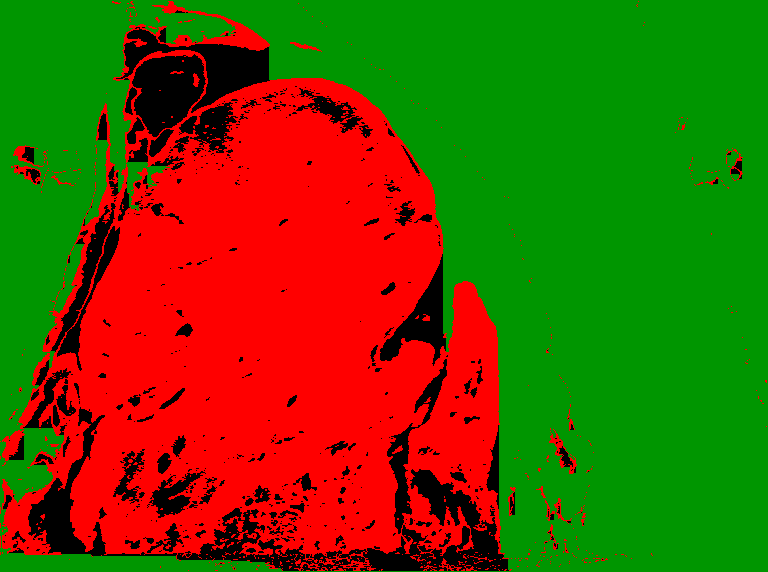
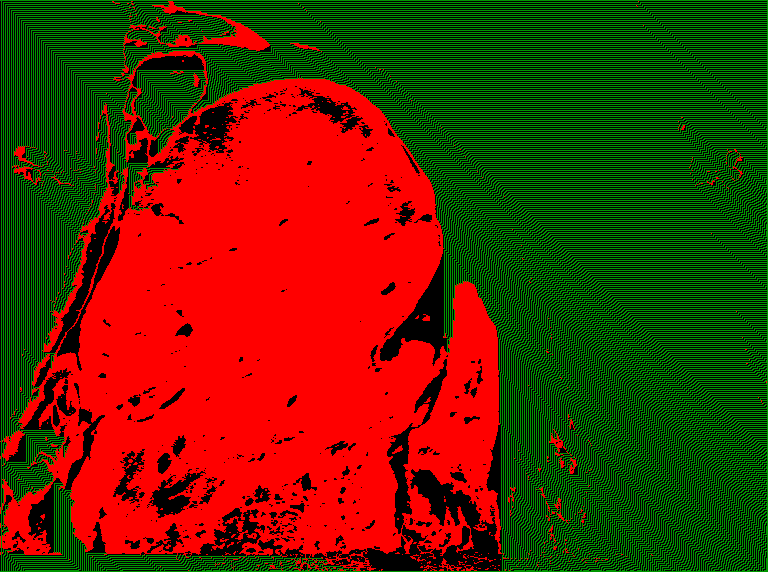
made better system?

Changed region(s): [[0.0, 0.0, 1.0, 1.0]]

diff --git a/process_image.py b/process_image.py
@@ -27,31 +27,36 @@ def create_image_two(image_path):
             else:
                 pixels_two[i, j] = (0, 0, 0)  # Black (non-red pixels)
     
-    # Color the background black [remember, the dimensions are 768x572] & [row, col]
+    # Color the outline black [remember, the dimensions are 768x572] & [row, col]
     for i in range(img.size[0]):  # For all pixels in range (width)
         pixels_two[i, 0] = (0, 150, 0) #the top row
         pixels_two[i, img.size[1] - 1] = (0, 150, 0) # Green
     for i in range(img.size[1]):  # For all pixels in range (width)
         pixels_two[1, i] = (0, 150, 0) #the top row
         pixels_two[img.size[0] - 1, i] = (0, 150, 0) # Green
-    
-    #spread out from there(infect the other cells) DOWN AND RIGHTdirection
-    for i in range(img.size[0] - 1):  # Width
-        for j in range(img.size[1] - 1):  # Height
-            if pixels_two[i, j] == (0, 150, 0): # if the pixel equals green 
-                if pixels_two[i, j + 1] == (0, 0, 0): # if the pixel to the bottom of it is black
-                    pixels_two[i, j + 1] = (0, 150, 0) # set botton pixel to green
-                if pixels_two[i + 1, j] == (0, 0, 0): #if the pixel to the right of it is black
-                    pixels_two[i + 1, j] = (0, 150, 0) # set botton pixel to green
-    
-    #spread out from there(infect the other cells) UP AND LEFT direction
-    for i in range(img.size[0] - 1):  # Width
-        for j in range(img.size[1] - 1):  # Height
-            if pixels_two[i, j] == (0, 150, 0): # if the pixel equals green 
-                if pixels_two[i, j - 1] == (0, 0, 0): # if the pixel above is black
-                    pixels_two[i, j - 1] = (0, 150, 0)
-                if pixels_two[i - 1, j] == (0, 0, 0): #if the pixel to the left of it is black
-                    pixels_two[i - 1, j] = (0, 150, 0)
+    for z in range(3):
+        for i in range(img.size[0]):  # Width
+            for j in range(img.size[1]):  # Height
+                if pixels_two[i, j] == (0, 0, 0): # if the pixel equals black 
+                    #checks the neighboring cells in all eight directions around it for green
+                    if pixels_two[i + 1, j + 1] == (0, 150, 0):
+                        pixels_two[i + 1, j + 1] = (0, 150, 0)
+                    if pixels_two[i + 1, j] == (0, 150, 0):
+                        pixels_two[i + 1, j + 1] = (0, 150, 0)
+                    if pixels_two[i + 1, j - 1] == (0, 150, 0):
+                        pixels_two[i + 1, j + 1] = (0, 150, 0)
+                    if pixels_two[i, j + 1] == (0, 150, 0):
+                        pixels_two[i + 1, j + 1] = (0, 150, 0)
+                    if pixels_two[i, j] == (0, 150, 0):
+                        pixels_two[i + 1, j + 1] = (0, 150, 0)
+                    if pixels_two[i, j - 1] == (0, 150, 0):
+                        pixels_two[i + 1, j + 1] = (0, 150, 0)
+                    if pixels_two[i - 1, j + 1] == (0, 150, 0):
+                        pixels_two[i + 1, j + 1] = (0, 150, 0)
+                    if pixels_two[i - 1, j] == (0, 150, 0):
+                        pixels_two[i + 1, j + 1] = (0, 150, 0)
+                    if pixels_two[i - 1, j - 1] == (0, 150, 0):
+                        pixels_two[i + 1, j + 1] = (0, 150, 0)
 
     # Save the resulting image
     img_two.save("image_two.png")
